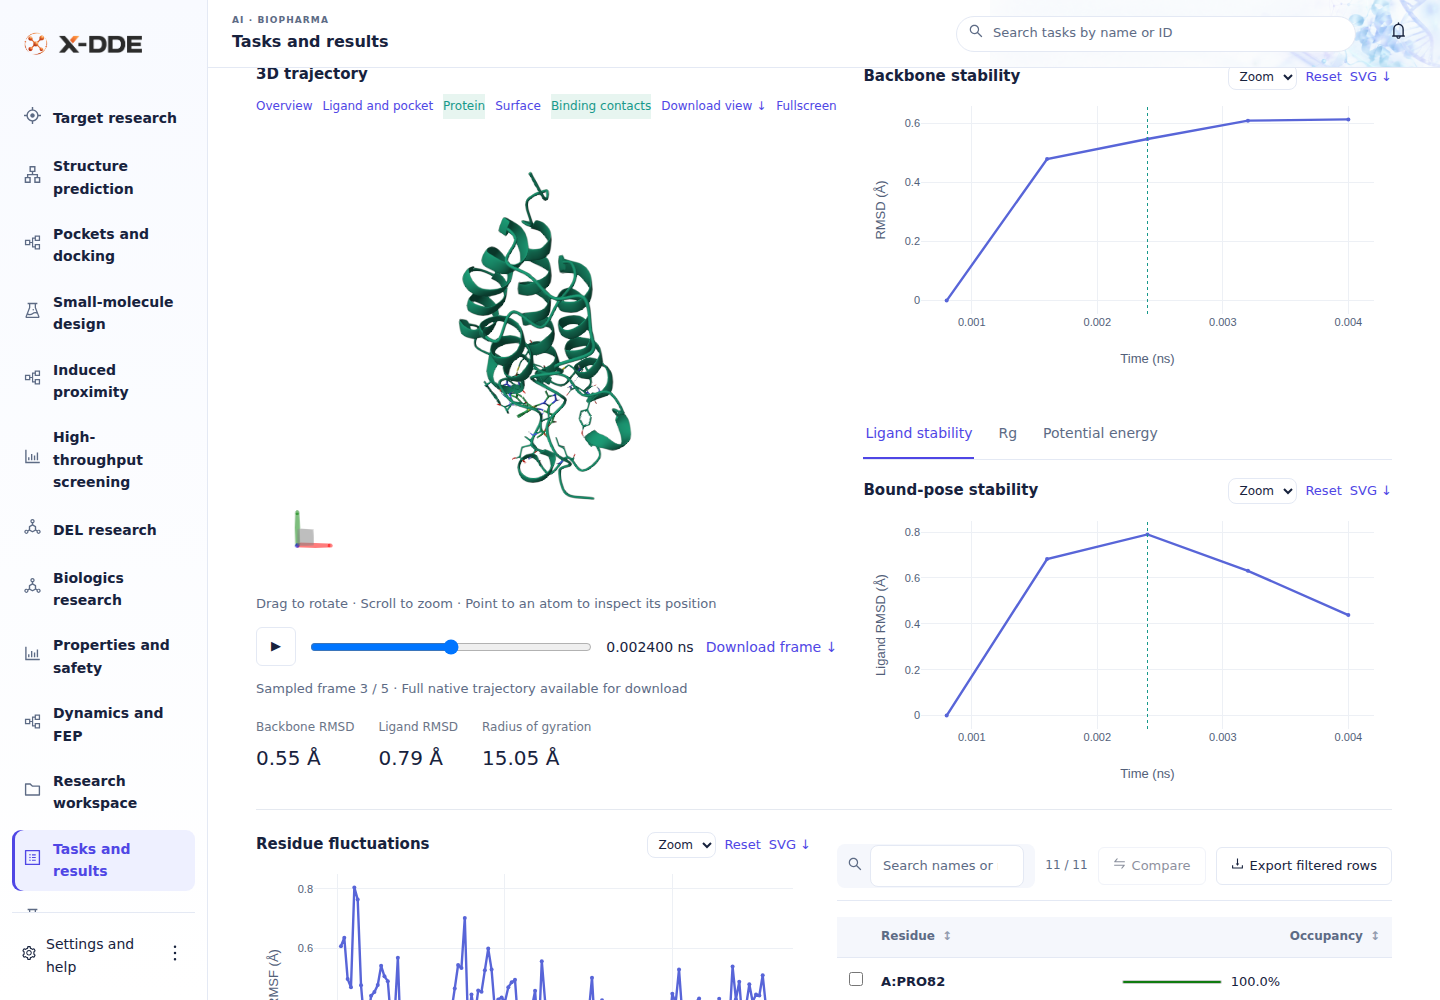
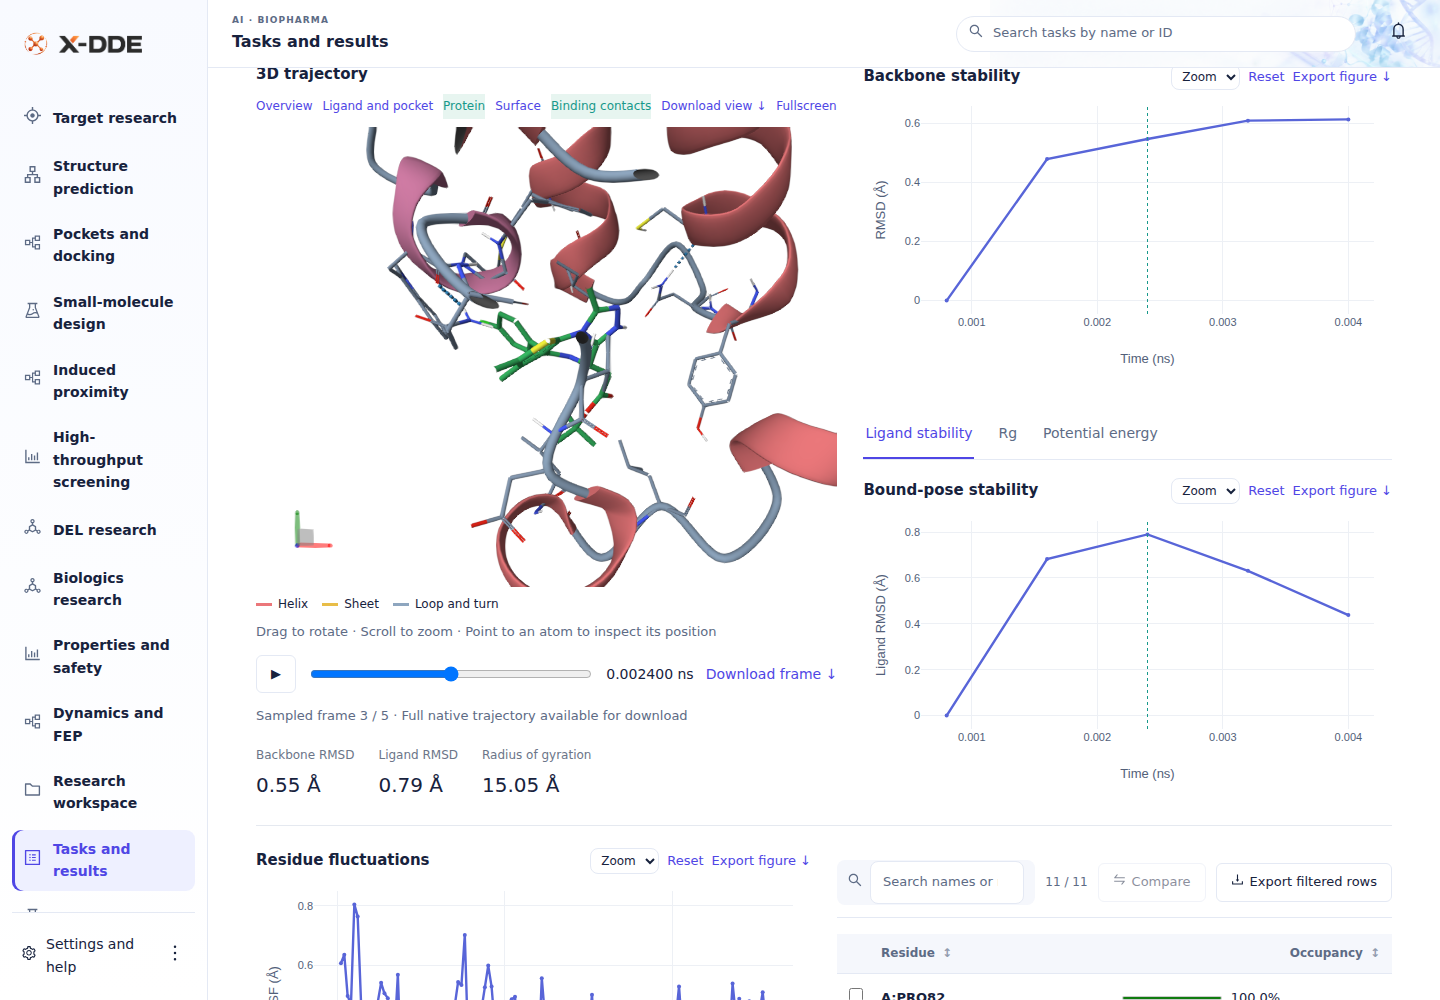
docs: publish genuine English views and scientific figure export guidance

diff --git a/README.en.md b/README.en.md
@@ -109,6 +109,8 @@ The antibody image shows a validated **input template**, without a new design ru
 
 Mol* renders live 3D structures and sampled trajectories; Plotly charts link sampled times to structures and provide hover, zoom, pan and SVG export. FEP uses a draggable Cytoscape network, Ketcher structures and selected-pose interaction inspection. Original research files remain separately downloadable.
 
+Research figure export offers 89/183 mm widths, native 300/600 dpi PNGs and editable SVG plots with physical type sizes. View changes retain the original structures and values; dialogs can be closed during rendering, and compact panels keep their controls within the available width.
+
 ![Actual English interactive MD result: 3D playback and linked stability plots](docs/images/dynamics-interactive.png)
 
 This BRD4/JQ1 view uses retained native short-simulation output to demonstrate interaction and downloads. It is not evidence of production convergence or affinity accuracy.
